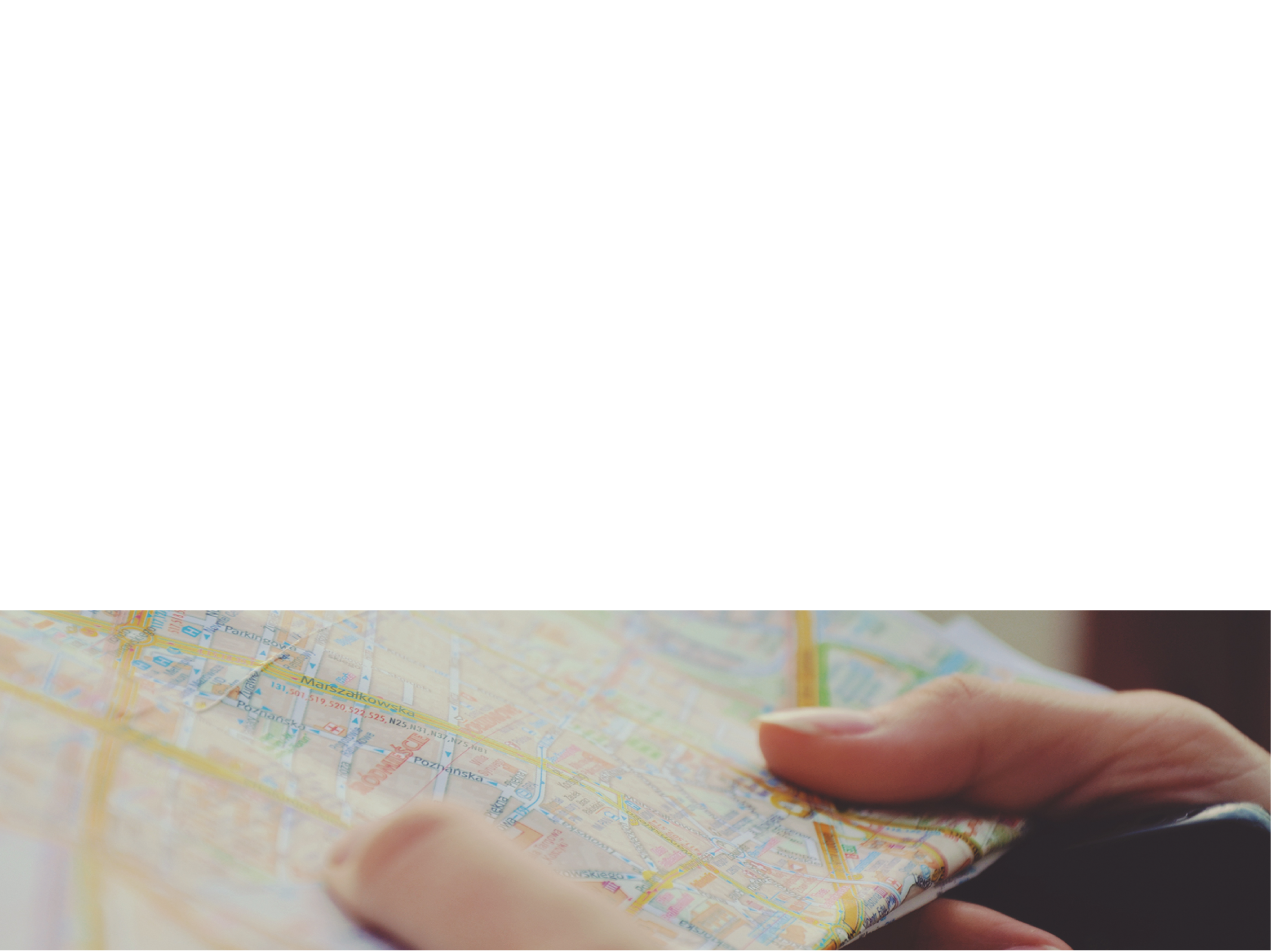
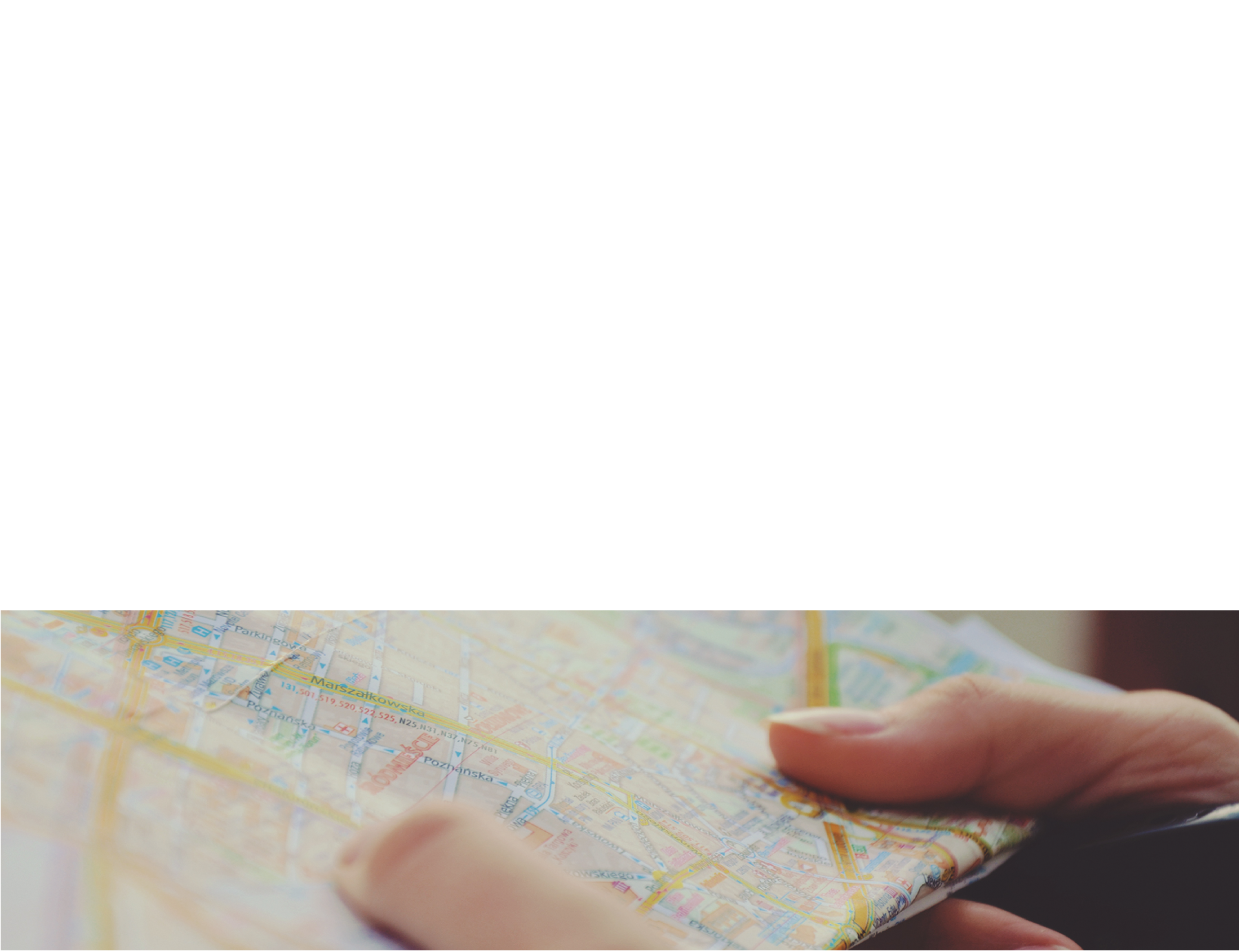
task7

Changed region(s): [[0.0, 0.6404, 1.0, 1.0], [0.0613, 0.9453, 0.092, 1.0]]

diff --git a/html/task7/index.css b/html/task7/index.css
@@ -201,12 +201,79 @@
     height: 340px;
     border-left: 1px solid #ede8e4;
     background: url(images/看地图.png) no-repeat;
-    background-size: 100% 100%;
-    background-position: scroll 0px -610px;
+    background-size: 100% 951px;
+    background-position: 0px -610px;
 }
-.main4Text{
+.main4Content{
+    position: relative;
     width: 1280px;
+    margin:0 auto;
     font:21px "MicrosoftYaHei";
     color: #fff;
+    font-weight: bold;
+}
+.main4Text{
+    padding-top: 55px;
     text-align:center;
+    position: relative;
+}
+.main4Text p:nth-child(2){
+    color: #fff;
+    font:14px "MicrosoftYaHei";
+    margin-top: 40px;
+}
+.main4Content form input{
+    width: 236px;
+    height: 36px;
+    display: inline-block;
+    margin-top: 54px;
+    background: url(images/jiantou.png) no-repeat 213px center,url(images/箭头icon_.png) no-repeat 210px center;
+    background-color: #fff;
+    border:1px solid #bf4f49;
+    text-indent: 10px;
+    margin-right: 30px;
+}
+.main4Content form input:nth-child(1){
+    margin-left: 126px;
+}
+.main4Content form button{
+    width: 236px;
+    height: 36px;
+    color: #fff;
+    background: #be4e48;
+    border:0;
+    font:14px "MicrosoftYahei";
+    font-weight: bold;
+    letter-spacing: 25px;
+    text-align: center;
+    padding-left: 25px;
+}
+.pullDownBox{
+    width: 238px;
+    position: absolute;
+    z-index: 3;
+    left: 400px;
+}
+.pullDownBox ul{
+    list-style: none;
+    background: #e4e3e5;
+    border:1px solid #bf4f49;
+    border-top: 0;
+}
+.pullDownBox li{
+    width: 236px;
+    height: 20px;
+    font-size: 12px;
+    text-indent: 35px;
+    color: #89898a;
+    font-weight: normal;
+}
+.pullDownBox li:hover{
+    background: #bf4f49 url(images/箭头2.png) no-repeat 10px center;
+    color: #fff;
+}
+.main5{
+    width: 100%;
+    height: 605px;
+    background: #f7f7f7;
 }

diff --git a/html/task7/index.html b/html/task7/index.html
@@ -59,7 +59,26 @@
 						<p>查找新世界城市活动</p>
 						<p>每个城市都有不同的活动信息，请自主查询您所需要了解的城市</p>
 					</div>
+					<form action="">
+						<input type="text" placeholder="中国">
+						<input type="text" placeholder="省份">
+						<input type="text" placeholder="城市">
+						<button>搜索</button>
+						<div class="pullDownBox">
+							<ul>
+								<li>北京市</li>
+								<li>天津市</li>
+								<li>河北省</li>
+								<li>陕西省</li>
+								<li>内蒙古自治区</li>
+								<li>辽宁省</li>
+							</ul>
+						</div>
+					</form>
 				</div>
+			</div>
+			<div class="main5">
+				
 			</div>
 		</div>
 		<div class="footer"></div>
